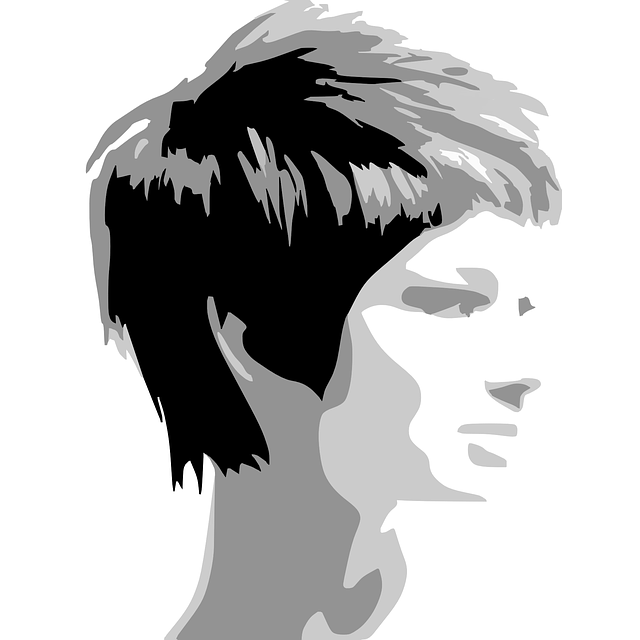
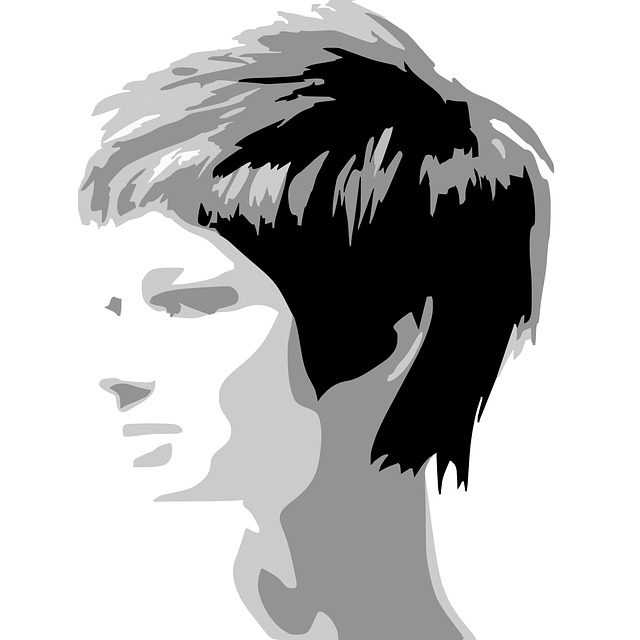
profile picture editable, saveToDB-service

diff --git a/src/app/game/game.component.ts b/src/app/game/game.component.ts
@@ -4,6 +4,7 @@ import { DialogAddPlayerComponent } from '../dialog-add-player/dialog-add-player
 import { Game } from '../models/game';
 import { AngularFirestore } from '@angular/fire/compat/firestore';
 import { ActivatedRoute, Router } from '@angular/router';
+import { DatabaseSaveService } from '../database-save.service';
 
 @Component({
   selector: 'app-game',
@@ -15,10 +16,10 @@ export class GameComponent implements OnInit {
   gameId: string = '';
 
   constructor(
+    private saveToDb: DatabaseSaveService,
     private route: ActivatedRoute,
-    private router: Router,
     private firestore: AngularFirestore,
-    public dialog: MatDialog
+    public dialog: MatDialog,
   ) {
     this.game = new Game();
   }
@@ -47,12 +48,12 @@ export class GameComponent implements OnInit {
     this.game.cardPicked = game.cardPicked
   }
 
-  saveGameToDataBase(){
+ /*  saveGameToDataBase(){
     this.firestore
     .collection('games')
     .doc(this.gameId)
     .update(this.game.toJson())
-  }
+  } */
 
   takeCard() {
     this.placeCard();
@@ -68,7 +69,7 @@ export class GameComponent implements OnInit {
         console.log('No more cards in stack');
       }
       this.game.cardPicked = true;
-      this.saveGameToDataBase();
+      this.saveToDb.saveGameToDataBase(this.gameId, this.game);
     }
   }
 
@@ -77,7 +78,7 @@ export class GameComponent implements OnInit {
       this.game.playedCards.push(this.game.currentCard);
       this.game.cardPicked = false;
       this.nextPlayer();
-      this.saveGameToDataBase();
+      this.saveToDb.saveGameToDataBase(this.gameId, this.game);
     }, 700);
   }
   
@@ -94,8 +95,9 @@ export class GameComponent implements OnInit {
 
     dialogRef.afterClosed().subscribe((name: string) => {
       if (name) {
-        this.game.players.push(name);
-        this.saveGameToDataBase();
+        this.game.players.push({name: name, image: this.game.profilePictures[this.game.getProfilePicture()]});
+        /* this.game.players.push(name); */
+        this.saveToDb.saveGameToDataBase(this.gameId, this.game);
       }
     });
   }

diff --git a/src/app/player/player.component.ts b/src/app/player/player.component.ts
@@ -1,5 +1,10 @@
 import { Component, Input, OnInit } from '@angular/core';
+import { DialogAddPlayerComponent } from '../dialog-add-player/dialog-add-player.component';
+import { MatDialog } from '@angular/material/dialog';
+
 import { Game } from '../models/game';
+import { EditPlayerComponent } from '../edit-player/edit-player.component';
+import { DatabaseSaveService } from '../database-save.service';
 
 @Component({
   selector: 'app-player',
@@ -8,13 +13,20 @@ import { Game } from '../models/game';
 })
 export class PlayerComponent implements OnInit {
   @Input() game!: Game;
+  @Input() gameId: string = '';
 
-  constructor() {}
+  constructor(public dialog: MatDialog, private saveToDb: DatabaseSaveService) {}
 
-  ngOnInit(): void {
-  }
+  ngOnInit(): void {}
 
-  editPlayer(playerId: number){
-    console.log('edit Player ' + playerId)
+  editPlayer(playerId: number) {
+    console.log('edit Player ' + playerId);
+
+    const dialogRef = this.dialog.open(EditPlayerComponent);
+    dialogRef.afterClosed().subscribe((change: string) => {
+      console.log('Player ' + playerId + ' edited: ' + change);
+      this.game.players[playerId].image = change;
+      this.saveToDb.saveGameToDataBase(this.gameId, this.game);
+    });
   }
 }

diff --git a/src/app/player/player.component.html b/src/app/player/player.component.html
@@ -1,13 +1,13 @@
 <div class="hide--desktop player-panel--desktop">
   <div (click)="editPlayer(i)" *ngFor="let player of game.players; let i = index" class="player player-desktop flex" [class.player-active]="game.currentPlayer == i" [style.height]="game.players.length > 4? '50px': '75px'">
-    <img src="assets/img/profile/female.png" />
-    <span>{{ player }}</span>
+    <img src="assets/img/profile/{{player.image}}" />
+    <span>{{ player.name }}</span>
   </div>
 </div>
 
 <div class="hide--mobile player-panel--mobile flex">
   <div (click)="editPlayer(i)" *ngFor="let player of game.players; let i = index" class="player player-mobile flex" [class.player-active]="game.currentPlayer == i">
-    <span>{{ player }}</span>
-    <img src="assets/img/profile/female.png" />
+    <span>{{ player.name }}</span>
+    <img src="assets/img/profile/{{player.image}}" />
   </div>
 </div>

diff --git a/src/app/models/game.ts b/src/app/models/game.ts
@@ -3,8 +3,9 @@ export class Game {
   cardPicked = false;
   stack: string[] = [];
   playedCards: string[] = [];
-  players: string[] = [];
-  /* players: {name: string, image: string}[] = []; */
+  /* players: string[] = []; */
+  players: {name: string, image: string}[] = [];
+  profilePictures = ['female.png', 'male.jpg','cat.png', 'dog.png', 'owl.png', 'dragonfly.png', 'tiger.png', 'hummingbird.png']
   currentPlayer: number = 0;
 
   constructor() {
@@ -32,6 +33,10 @@ export class Game {
       this.stack.push(`diamonds_${i}`);
       this.stack.push(`hearts_${i}`);
     }
+  }
+
+  getProfilePicture(){
+    return Math.floor(Math.random()*(this.profilePictures.length - 1))
   }
 } 
 

diff --git a/src/app/database-save.service.ts b/src/app/database-save.service.ts
@@ -1,0 +1,20 @@
+import { Injectable } from '@angular/core';
+import { AngularFirestore } from '@angular/fire/compat/firestore';
+
+@Injectable({
+  providedIn: 'root'
+})
+export class DatabaseSaveService {
+
+
+  constructor(private firestore: AngularFirestore) { }
+
+  saveGameToDataBase(currentGame: string, game: any){
+    this.firestore
+    .collection('games')
+    .doc(currentGame)
+    .update(game.toJson());
+
+    console.log('game saved')
+  }
+}

diff --git a/src/app/database-save.service.spec.ts b/src/app/database-save.service.spec.ts
@@ -1,0 +1,16 @@
+import { TestBed } from '@angular/core/testing';
+
+import { DatabaseSaveService } from './database-save.service';
+
+describe('DatabaseSaveService', () => {
+  let service: DatabaseSaveService;
+
+  beforeEach(() => {
+    TestBed.configureTestingModule({});
+    service = TestBed.inject(DatabaseSaveService);
+  });
+
+  it('should be created', () => {
+    expect(service).toBeTruthy();
+  });
+});

diff --git a/src/app/edit-player/edit-player.component.scss b/src/app/edit-player/edit-player.component.scss
@@ -1,0 +1,21 @@
+.picture-container{
+ gap: 20px;
+ flex-wrap: wrap;
+ background-color: #ccc;
+ border-radius: 5px;
+ padding: 15px;
+
+}
+.profile-picture{
+ width: 75px;
+ height: 75px;
+ object-fit: contain;
+ border-radius: 50%;
+ background-color: white;
+ cursor: pointer;
+
+ &:hover{
+  filter: brightness(1.25);
+  box-shadow: 0 0 5px rgba($color: #000000, $alpha: 0.2);
+ }
+}

diff --git a/src/app/edit-player/edit-player.component.ts b/src/app/edit-player/edit-player.component.ts
@@ -7,6 +7,7 @@ import { Component, OnInit } from '@angular/core';
 })
 export class EditPlayerComponent implements OnInit {
 
+  profilePictures = ['female.png', 'male.jpg','cat.png', 'dog.png', 'owl.png', 'dragonfly.png', 'tiger.png', 'hummingbird.png']
   constructor() { }
 
   ngOnInit(): void {

diff --git a/src/app/game/game.component.html b/src/app/game/game.component.html
@@ -1,4 +1,4 @@
-<app-player [game]="game" class="hide--desktop"></app-player>
+<app-player [game]="game" [gameId]="gameId" class="hide--desktop"></app-player>
 <!-- <app-player-mobile [game]="game" class="player-mobile hide--mobile flex"></app-player-mobile> -->
 
 <div class="field flex">

diff --git a/src/app/edit-player/edit-player.component.html b/src/app/edit-player/edit-player.component.html
@@ -1,1 +1,9 @@
-<p>edit-player works!</p>
+<h2>Choose your profile picture</h2>
+<div class="picture-container flex">
+  <img
+  [mat-dialog-close]="picture"
+    *ngFor="let picture of profilePictures"
+    src="assets/img/profile/{{ picture }}"
+    class="profile-picture"
+  />
+</div>

diff --git a/src/app/player/player.component.scss b/src/app/player/player.component.scss
@@ -14,9 +14,11 @@
   cursor: pointer;
 
   img {
-    transform: scaleX(-1);
     border-radius: 50%;
     opacity: 0.5;
+    background-color: white;
+    object-fit: contain;
+    aspect-ratio: 1;
   }
   span {
     color: #9aa;
